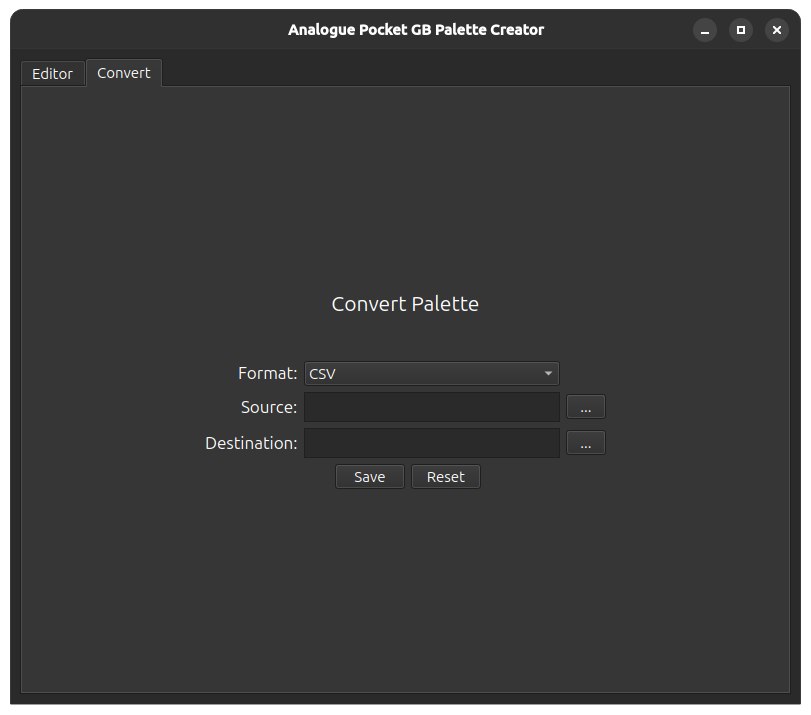
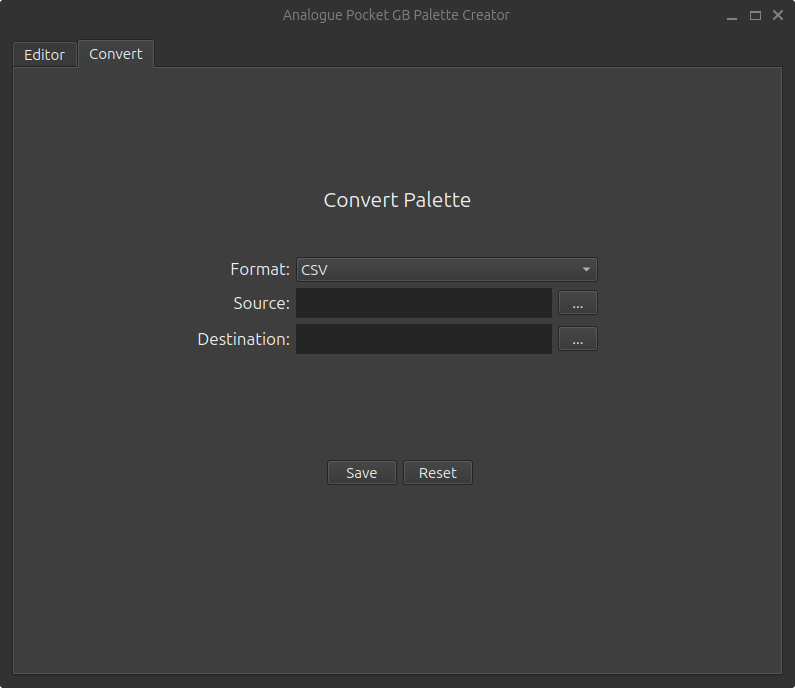
Setup script for  setting environment variable for image view files

diff --git a/app/src/mainwindow.cpp b/app/src/mainwindow.cpp
@@ -3,6 +3,9 @@
 #include <string>
 #include <QGraphicsPixmapItem>
 #include <QStringList>
+#include <iostream>
+#include <QByteArray> 
+#include <QtGlobal> 
 
 using namespace std;
 
@@ -17,16 +20,11 @@ MainWindow::MainWindow(QWidget *parent)
     scene = new QGraphicsScene(this);
     ui->view_img->setScene(scene);
 
-    // Initialize image (Find a more clever way of retrieving this file from a folder)
-    QString imgDirPath;
-    // Path when using QT Creator
-    /*imgDirPath = QDir::cleanPath(QCoreApplication::applicationDirPath() + QDir::separator()
-                                         + ".." + QDir::separator() + ".." + QDir::separator()
-                                         + "graphics" + QDir::separator() + "image_view");*/
-    // Path when using CMake                                     
-    imgDirPath = QDir::cleanPath(QCoreApplication::applicationDirPath() + QDir::separator()
-                                         + "graphics" + QDir::separator() + "image_view");
-    if(!QDir(imgDirPath).exists()){
+    // Initialize image
+    auto viewPath = QString::fromLocal8Bit(qgetenv("APGB_IMG_VIEW_PATH"));
+    QString imgDirPath = QDir::cleanPath(viewPath);
+    //qDebug() << "Image path:" << viewPath;
+    if(viewPath.isEmpty() || !QDir(imgDirPath).exists()){
         QMessageBox::critical(this, "Image Error", "Could not find image_view/ directory.");
     }
     this->imgImporter.setImgDirectory(imgDirPath);

diff --git a/README.md b/README.md
@@ -19,22 +19,22 @@ A tool designed to provide a convenient way of creating custom GB palettes for t
 - Features
     - [ ] Dynamically scale image when window size is updating
 - Optimizations
-    - [ ] Find a more dynamic solution for finding the`image_view/` directory for the dynamic palette image viewer
+    - [X] Find a more dynamic solution for finding the`image_view/` directory for the dynamic palette image viewer
 - Miscellaneous
-    - [ ] Upload more sample images for testing GB palettes dynamically
+    - [X] Upload more sample images for testing GB palettes dynamically
     - [ ] Add an application icon
 
 ## Quick Start
 ### Pre-requistes
 - C++17 or higher
-- QT6 (and supported qmake)
+- QT6
 
 ### Build and Run
 ##### Option 1: QT Creator
 1. Open project through interface
-2. Build project
-3. Navigate to executable from `build/` directory 
-4. Run application executable
+2. Navigate to Project Settings > Project Environment
+    1. Add APGB_IMG_VIEW_PATH variable with image_view/ path  
+3. Build and run application
 ##### Option 2: Command Line
 1. Open the directory for this project.
 2. Configure QT and Qmake
@@ -44,11 +44,12 @@ A tool designed to provide a convenient way of creating custom GB palettes for t
     export QTDIR=/path/to/Qt/<version>/gcc_64
     ```
 3. Build Project
-     ```
-    cmake -project 
-    make
+    ```bash
+    chmod +x setup.sh
+    ./setup.sh
+    source ~/.bashrc
     ```
-3. Run application executable
+4. Run application executable
 
 ## Functionality
 - **Editor** := Create a pal file (hex-based) for Analogue Pocket using a graphical interface.
